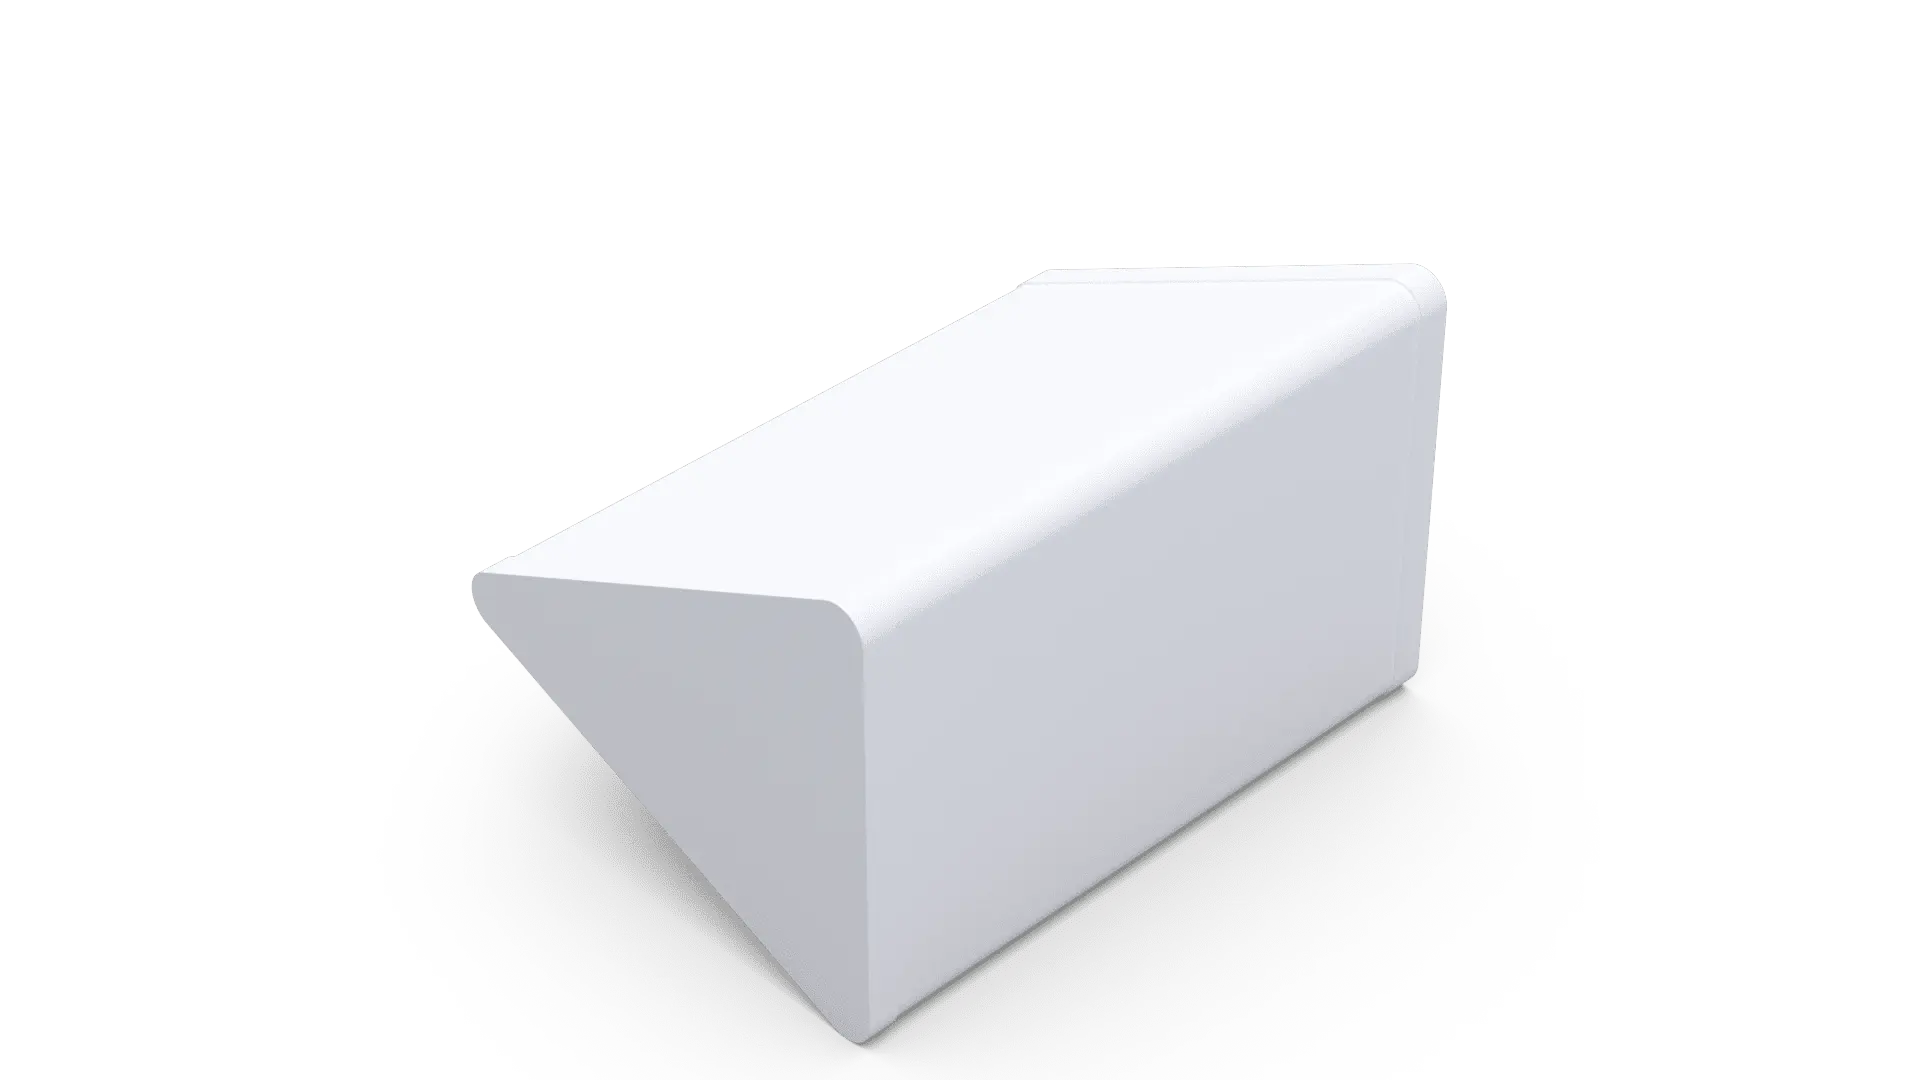
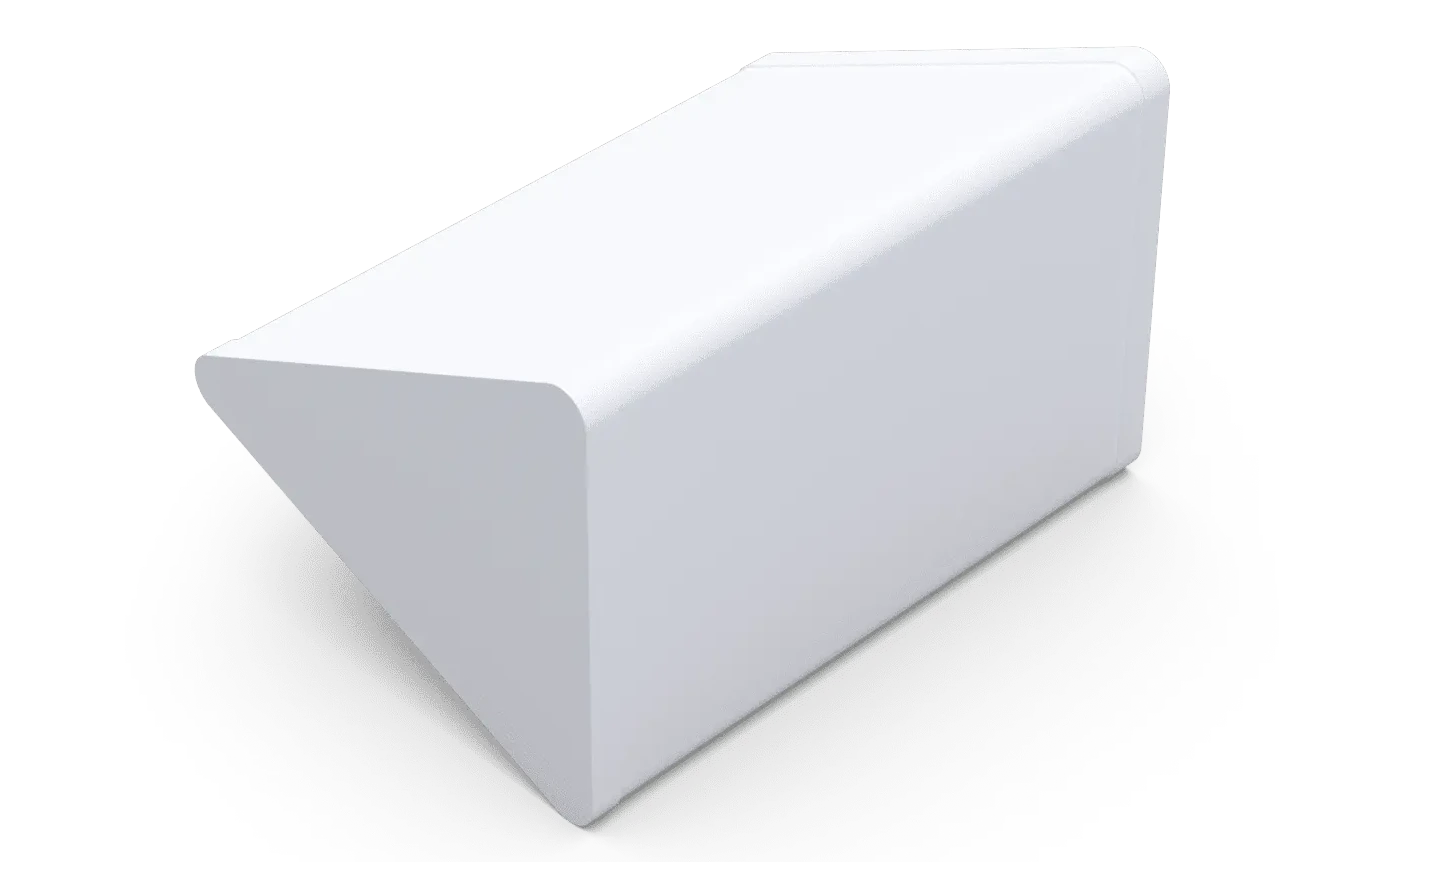
upd
Properties in specifications have been updated. Images size is lower it's demending to improve their display method.

Changed region(s): [[0.1237, 0.0922, 0.8041, 0.9829]]

diff --git a/src/app/home/details/paticularDetails.ts b/src/app/home/details/paticularDetails.ts
@@ -1,103 +1,143 @@
-import { imagesPath } from "src/app/path";
+import { imagesPath } from 'src/app/path';
 
 export const data = {
-    0: {
-        description: `In an ever-evolving technological landscape, the rise of unmanned aerial vehicles (UAVs) has brought both innovation and challenges.
-        As the use of drones continues to grow, so does the need for effective countermeasures to safeguard sensitive areas and ensure public safety.
-        At ITELITE, we understand the critical importance of neutralizing potential threats posed by unauthorized drones.
-        Our cost-effective and powerful ANTENNAS for anti-drone system utilizes sophisticated jamming technology, disrupting the electromagnetic signals used by these devices for data transmission and navigation.
-        Covering a wide spectrum from 433MHz up to 7.2GHz frequency bands, our solution ensures comprehensive protection against a range of UAVs.`,
+  0: {
+    description: `
+            This antenna system is designed for covering a wide range of frequencies with consistency in gain and beamwidth and providing 360 degrees of coverage. 
+            The system is divided into 4 quadrants, each quadrant containing a vertically polarized antenna, covering 433MHz to 6GHz. `,
 
-        specification: `Using these 2 antennas, you can build a system covering different sectors for bands 433MHz to 1.3GHz (PAT0413G5) and from 2.4GHz to 5.9GHz (PAT2450G10).
-        Each antenna is vertically polarized.
-        The PAT0413G5 gain is in the range of 3.4 – 8.7dBi. On the other hand, the PAT2450G10 gain is 9-10 dBi.`,
-
-        mechanical_properties: {
-            length: 40.5,
-            width: 53,
-            weight: 0.2,
-            color: "white or green",
-            material: "Plastic"
+    specification: {
+      'Frequency range': [
+        {
+          P1: '433MHz – 1.3GHz',
+          P2: '2.4GHz – 2.5GHz $ 5.1GHz – 5.9GHz',
         },
-
-        charts: {
-            0: imagesPath + "home/content/charts/" + "chart_1_1",
-            1: imagesPath + "home/content/charts/" + "chart_1_2",
-            header: "PAT0413G5"
-        }
+      ],
+      Gain: [
+        {
+          P1: '3.5 – 7.9 dBi',
+          P2: '10 dBi',
+        },
+      ],
+      'Beamwidth Azimuth': [
+        {
+          P1: '60 – 90 Degrees (@ -3dB)',
+          P2: 'Degrees (@ -3dB)',
+        },
+      ],
+      'Beamwidth Elevation': [
+        {
+          P1: '80 – 110 Degrees (@ -3dB)',
+          P2: '30 Degrees (@ -3dB)',
+        },
+      ],
+      VSWR: '< 2',
+      Impedance: '50 Ohms',
+      'XPD (cross polarization discrimination)': '> 20dB',
+      'RF Interface': 'X8 N-type Female (2 per quadrant)',
     },
-    1: {
-        description: `In an ever-evolving technological landscape, the rise of unmanned aerial vehicles (UAVs) has brought both innovation and challenges.
-        As the use of drones continues to grow, so does the need for effective countermeasures to safeguard sensitive areas and ensure public safety.
-        At ITELITE, we understand the critical importance of neutralizing potential threats posed by unauthorized drones.
-        Our cost-effective and powerful ANTENNAS for anti-drone system utilizes sophisticated jamming technology, disrupting the electromagnetic signals used by these devices for data transmission and navigation.
-        Covering a wide spectrum from 433MHz up to 7.2GHz frequency bands, our solution ensures comprehensive protection against a range of UAVs.`,
 
-        specification: `Using these 2 antennas, you can build a system covering different sectors for bands 433MHz to 1.3GHz (PAT0413G5) and from 2.4GHz to 5.9GHz (PAT2450G10).
-        Each antenna is vertically polarized.
-        The PAT0413G5 gain is in the range of 3.4 – 8.7dBi. On the other hand, the PAT2450G10 gain is 9-10 dBi.`,
-
-        mechanical_properties: {
-            length: 112.3,
-            width: 85,
-            weight: 17,
-            color: "white or green",
-            material: "Plastic"
-        },
-
-        charts: {
-            0: imagesPath + "home/content/charts/" + "chart_2_1",
-            header: "PAT0413G5"
-        }
+    mechanical_properties: {
+      length: 40.5,
+      width: 53,
+      weight: 0.2,
+      color: 'white or green',
+      material: 'Plastic',
     },
-    2: {
-        description: `In an ever-evolving technological landscape, the rise of unmanned aerial vehicles (UAVs) has brought both innovation and challenges.
-        As the use of drones continues to grow, so does the need for effective countermeasures to safeguard sensitive areas and ensure public safety.
-        At ITELITE, we understand the critical importance of neutralizing potential threats posed by unauthorized drones.
-        Our cost-effective and powerful ANTENNAS for anti-drone system utilizes sophisticated jamming technology, disrupting the electromagnetic signals used by these devices for data transmission and navigation.
-        Covering a wide spectrum from 433MHz up to 7.2GHz frequency bands, our solution ensures comprehensive protection against a range of UAVs.`,
 
-        specification: `Using these 2 antennas, you can build a system covering different sectors for bands 433MHz to 1.3GHz (PAT0413G5) and from 2.4GHz to 5.9GHz (PAT2450G10).
-        Each antenna is vertically polarized.
-        The PAT0413G5 gain is in the range of 3.4 – 8.7dBi. On the other hand, the PAT2450G10 gain is 9-10 dBi.`,
-
-        mechanical_properties: {
-            length: 63.2,
-            width: [41.5, 34.7],
-            weight: 0.2,
-            color: "white or green",
-            material: "Plastic"
-        },
-
-        charts: {
-            0: imagesPath + "home/content/charts/" + "chart_1_1",
-            1: imagesPath + "home/content/charts/" + "chart_1_2",
-            header: "PAT0413G5"
-        }
+    charts: {
+      0: imagesPath + 'home/content/charts/' + 'chart_1_1',
+      1: imagesPath + 'home/content/charts/' + 'chart_1_2',
+      header: 'PAT0413G5',
     },
-    3: {
-        description: `In an ever-evolving technological landscape, the rise of unmanned aerial vehicles (UAVs) has brought both innovation and challenges.
-        As the use of drones continues to grow, so does the need for effective countermeasures to safeguard sensitive areas and ensure public safety.
-        At ITELITE, we understand the critical importance of neutralizing potential threats posed by unauthorized drones.
-        Our cost-effective and powerful ANTENNAS for anti-drone system utilizes sophisticated jamming technology, disrupting the electromagnetic signals used by these devices for data transmission and navigation.
-        Covering a wide spectrum from 433MHz up to 7.2GHz frequency bands, our solution ensures comprehensive protection against a range of UAVs.`,
+  },
+  1: {
+    description: `
+            This antenna system is designed for covering a wide range of frequencies with consistency in gain and beamwidth and providing 360 degrees of coverage. 
+            The system is divided into 4 quadrants, each quadrant containing a vertically polarized antenna, covering 433MHz to 6GHz.`,
 
-        specification: `Using these 2 antennas, you can build a system covering different sectors for bands 433MHz to 1.3GHz (PAT0413G5) and from 2.4GHz to 5.9GHz (PAT2450G10).
-        Each antenna is vertically polarized.
-        The PAT0413G5 gain is in the range of 3.4 – 8.7dBi. On the other hand, the PAT2450G10 gain is 9-10 dBi.`,
+    specification: {
+      'Frequency range': '400MHz – 6GHz',
+      Gain: '8-9 dBi',
+      'Beamwidth Azimuth': '80 deg (@ -3dB)',
+      'Beamwidth Elevation': '60 deg (@ -3 dB)',
+      VSWR: '< 2',
+      Impedance: '50 Ohms',
+      'XPD (cross polarization discrimination)': '> 25dB',
+      'RF Interface': 'X4 N-type Female (1 per quadrant)',
+    },
 
-        mechanical_properties: {
-            length: 72,
-            width: 29,
-            weight: 3.75,
-            color: "white or green",
-            material: "Plastic"
-        },
+    mechanical_properties: {
+      length: 84,
+      width: 84,
+      height: 115,
+      weight: 17,
+      color: 'white or green',
+      material: 'Plastic',
+    },
 
-        charts: {
-            0: imagesPath + "home/content/charts/" + "adas-4_1",
-            1: imagesPath + "home/content/charts/" + "adas-4_2",
-            header: "PAT0413G5"
-        }
-    }
+    charts: {
+      0: imagesPath + 'home/content/charts/' + 'chart_2',
+      header: 'PAT0413G5',
+    },
+  },
+  2: {
+    description: `
+        This is a compact microstrip directive Vivaldi antenna covering from 500MHz up to 6GHz with a gain of up tuo12 dBi. 
+        The polarization is dual linear and by rotating the antenna you can set the polarization to H&V or slant polarization.`,
+
+    specification: {
+      'Frequency range': '500MHz – 6GHz',
+      Gain: '7 - 12 dBi',
+      'Beamwidth Azimuth': '50 - 60 deg (@ -3dB)',
+      'Beamwidth Elevation': '20 - 70 deg (@ -3 dB)',
+      VSWR: '< 2',
+      Impedance: '50 Ohms',
+      'XPD (cross polarization discrimination)': '> 20dB',
+      'RF Interface': 'N-type Female ',
+    },
+
+    mechanical_properties: {
+      length: 63.2,
+      width: [41.5, 34.7],
+      weight: 0.2,
+      color: 'white or green',
+      material: 'Plastic',
+    },
+
+    charts: {
+      0: imagesPath + 'home/content/charts/' + 'chart_3',
+      header: 'PAT0413G5',
+    },
+  },
+  3: {
+    description: `
+        This is a ruggedized steel directive LPD antenna covering from 500MHz up to 3GHz. 
+        The gain and radiation pattern are quite stable within all the operational antenna’s bandwidth. 
+        The polarization is linear and by rotating the antenna you can set the polarization to H, V or slant polarization. `,
+
+    specification: {
+      'Frequency range': '500MHz – 3GHz',
+      Gain: '10 dBi',
+      'Beamwidth Azimuth': '80 deg (@ -3dB)',
+      'Beamwidth Elevation': '50 deg (@ -3 dB)',
+      VSWR: '< 2',
+      Impedance: '50 Ohms',
+      'XPD (cross polarization discrimination)': '> 20dB',
+      'RF Interface': 'N-type Female ',
+    },
+
+    mechanical_properties: {
+      length: 72,
+      width: 29,
+      weight: 3.75,
+      color: 'white or green',
+      material: 'Plastic',
+    },
+
+    charts: {
+      0: imagesPath + 'home/content/charts/' + 'chart_4',
+      header: 'PAT0413G5',
+    },
+  },
 };

diff --git a/src/app/home/details/details.component.html b/src/app/home/details/details.component.html
@@ -30,7 +30,49 @@
 
     <div  class="properties specification">
       <h4>Specification</h4>
-      <p>{{properties.specification}}</p>
+      <ul>
+        <li *ngIf="isString(properties.specification['Frequency range']); else frequency_arr">Frequency range: {{ properties.specification["Frequency range"] }}</li>
+        <ng-template #frequency_arr>
+          <p>Frequency range:</p>
+          <ul>
+            <li>{{properties.specification['Frequency range'][0]['P1']}}</li>
+            <li>{{properties.specification['Frequency range'][0]['P2']}}</li>
+          </ul>
+        </ng-template>
+
+        <li *ngIf="isString(properties.specification['Gain']); else gain_arr">Gain: {{ properties.specification["Gain"] }}</li>
+        <ng-template #gain_arr>
+          <p>Gain:</p>
+          <ul>
+            <li>{{properties.specification['Gain'][0]['P1']}}</li>
+            <li>{{properties.specification['Gain'][0]['P2']}}</li>
+          </ul>
+        </ng-template>
+
+        <li *ngIf="isString(properties.specification['Beamwidth Azimuth']); else azimuth_arr">Beamwidth Azimuth: {{ properties.specification["Beamwidth Azimuth"] }}</li>
+        <ng-template #azimuth_arr>
+          <p>Beamwidth Azimuth:</p>
+          <ul>
+            <li>{{properties.specification['Beamwidth Azimuth'][0]['P1']}}</li>
+            <li>{{properties.specification['Beamwidth Azimuth'][0]['P2']}}</li>
+          </ul>
+        </ng-template>
+
+        <li *ngIf="isString(properties.specification['Beamwidth Elevation']); else elevation_arr">Beamwidth Elevation: {{ properties.specification["Beamwidth Elevation"] }}</li>
+        <ng-template #elevation_arr>
+          <p>Beamwidth Elevation:</p>
+          <ul>
+            <li>{{properties.specification['Beamwidth Elevation'][0]['P1']}}</li>
+            <li>{{properties.specification['Beamwidth Elevation'][0]['P2']}}</li>
+          </ul>
+        </ng-template>
+
+        <li>VSWR: {{ properties.specification["VSWR"] }}</li>
+        <li>Impedance: {{ properties.specification["Impedance"] }}</li>
+
+        <li>XPD (cross polarization discrimination): {{ properties.specification["XPD (cross polarization discrimination)"] }}</li>
+        <li>RF Interface: {{ properties.specification["RF Interface"] }}</li>
+      </ul>
     </div>
 
     <div  class="properties mechanical_properties">
@@ -68,12 +110,12 @@
 
       <div>
         <h4>{{properties.charts.header}}</h4>
-        <img src="{{properties.charts[0]}}.jpg" alt="">
+        <img src="{{properties.charts[0]}}.webp" alt="">
       </div>
 
       <div *ngIf="properties.charts[1]">
         <h4>{{properties.charts.header}}</h4>
-        <img src="{{properties.charts[1]}}.jpg" alt="">
+        <img src="{{properties.charts[1]}}.webp" alt="">
       </div>
       
     </div>

diff --git a/src/app/home/home.component.scss b/src/app/home/home.component.scss
@@ -6,6 +6,18 @@ $content_text_margin_top: 30px;
         margin-top: 60px;
     }
 
+    $list: 750 510, 695 455, 400 590, 330 530;
+
+    @for $i from 1 through 4{
+
+        :host ::ng-deep app-details:nth-of-type(#{$i}) .content .image img{
+            height: calc( nth( nth($list, $i), 1) * 1px);
+            width: calc( nth( nth($list, $i), 2) * 1px);
+        }
+    }
+
+    
+
     section{
         position: relative;
         width: 77%;

diff --git a/src/app/details.scss b/src/app/details.scss
@@ -97,11 +97,6 @@ $content_text_margin_top: 30px;
         justify-content: center;
         align-items: center;
         flex-direction: column;
-
-        img {
-            width: 890px;
-            height: 500px;
-        }
     }
 
     .particular_details {

diff --git a/src/app/home/details/details.service.ts b/src/app/home/details/details.service.ts
@@ -50,7 +50,7 @@ export class DetailsService {
 
       detailsService.flag = false;
       this.properties = data[this.details.id];
-      
+
       this.changeDetRef.detectChanges();
       detailsService.gsapDetails(this.content.nativeElement);
     }

diff --git a/src/app/home/details/details.component.ts b/src/app/home/details/details.component.ts
@@ -56,4 +56,9 @@ export class DetailsComponent implements AfterViewInit{
   {
     return typeof width == "number";
   }
+
+  isString(data): boolean
+  {
+    return typeof data == "string";
+  }
 }
